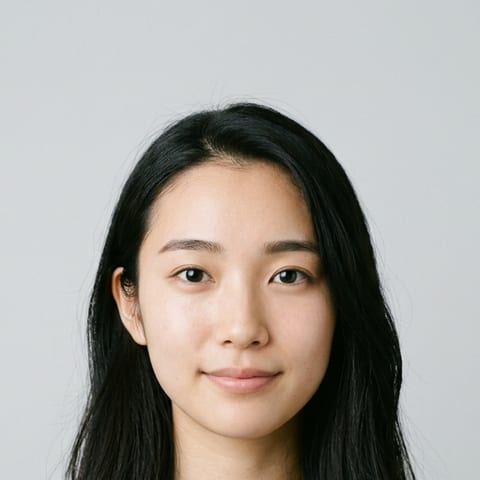
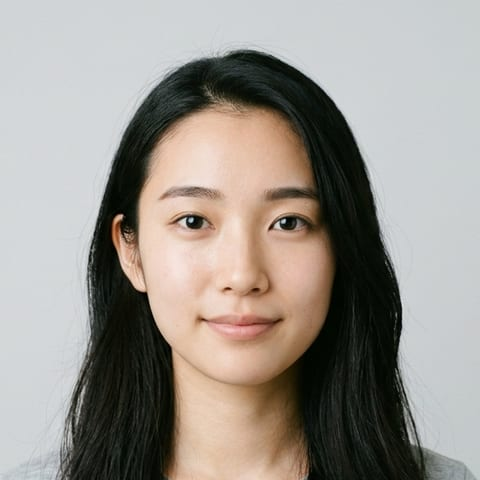
目を見開いた顔を外し、切り出しの縦位置をあご基準にする
f79 は目を見開いて見え、選ぶ前に気が散る。外した（115枚 → 114枚）。
枚数は減るが、精度は下がらなかった。相関がわずかに下がったぶん、
むしろ上がっている（仮想ユーザー200人）。

         115枚   114枚
  30問   0.837   0.850
  45問   0.869   0.875
  最大相関 0.77    0.76

画面に出す精度を 30問 84%→85%、45問 87%→88% に直した。

f139 は顔が枠の下に寄っていた（あご 91.1%、他は 79.1〜81.5%）。
前回の修正で切り詰めた分を上下に振り分けたが、起点の頭頂そのものが
外れていたので、誤差の半分が上に残っていた。

縦の位置は頭頂ではなく、ランドマークで確実に取れる「あご」を基準にする。
枠の上から 80.3% に置く。この値は同梱プールの実測の中央値で、従来の
枠の取り方（あごの下に 0.95d 残す）とも一致するため、正常な顔は動かない。

  f139 のあご  91.1% → 79.9%
  実測値は元画像から測るので変わらない（15項目すべて一致）
  元画像が残っている56枚で回帰を確認、実測値 56/56 一致、作った帯 0枚

Claude-Session: https://claude.ai/code/session_01TDnL9mgcvwXTouEv8J9n96

diff --git a/src/measure.js b/src/measure.js
@@ -112,6 +112,13 @@ export function samplePatch(px, W, H, cx, cy, r, stride = 3) {
 const BOX_MAX = 5.2;
 const BOX_MIN = 4.0;
 
+// あごを枠のどこに置くか（上からの割合）。
+// 縦の位置は頭頂ではなく、あご（ランドマークで確実に取れる）を基準にする。
+// 頭頂は髪のほつれや背景のムラを拾って上に外すことがあり、そこを起点にすると
+// 誤差がそのまま顔の位置のずれになる。同梱115枚の実測の中央値が 80.3% で、
+// 従来の枠の取り方（あごの下に 0.95d 残す）とも一致するので、ここを狙う。
+const CHIN_AT = 0.803;
+
 export function chooseBox(geo, W, H, headTop = null) {
   const d = geo._d;
   // 頭頂が実測できていればそこを基準にする。できなければ両目の間隔から見積もる。
@@ -125,9 +132,8 @@ export function chooseBox(geo, W, H, headTop = null) {
   let box = Math.round(Math.min(d * BOX_MAX, Math.max(need, d * BOX_MIN)));
   box = Math.round(Math.max(Math.min(box, fits), Math.min(d * BOX_MIN, fits)));
 
-  // 上限で切り詰めたぶんは上下に振り分ける。頭頂に合わせたままだと、
-  // 頭の上だけ詰まってあごの下が余る。
-  let oy = Math.round(top0 + Math.max(0, need - box) * 0.5);
+  // 縦はあごを基準に置く。頭頂の実測が外れていても、顔の位置はずれない。
+  let oy = Math.round(geo._chin.y - box * CHIN_AT);
   let ox = Math.round(geo._eyeMid.x - box / 2);
   // はみ出すなら、埋めずにまず画像の中へ寄せる
   if (box <= W) ox = Math.min(Math.max(ox, 0), W - box);

diff --git a/src/app.js b/src/app.js
@@ -98,11 +98,11 @@ function buildStartScreen() {
 
   // 精度は同梱プールでの実測値（node test/simulate.mjs <問数> 120 --pool data/faces.json）
   $('rounds-choices').innerHTML = [
-    // 115枚・較正後の実測（node test/simulate.mjs <問数> 200 --pool data/faces.json の
+    // 114枚・較正後の実測（node test/simulate.mjs <問数> 200 --pool data/faces.json の
     // adaptive 予測一致率）。顔を足したり較正を変えたら測り直す。
     { v: 20, label: 'さくっと', acc: 81 },
-    { v: 30, label: 'おすすめ', acc: 84 },
-    { v: 45, label: 'しっかり', acc: 87 },
+    { v: 30, label: 'おすすめ', acc: 85 },
+    { v: 45, label: 'しっかり', acc: 88 },
     { v: 90, label: 'とことん', acc: 90 },
   ].map((r) => `<button class="choice${r.v === state.rounds ? ' is-on' : ''}" data-value="${r.v}">
       <span class="big">${r.v}</span><span class="sub">${r.label}</span>
